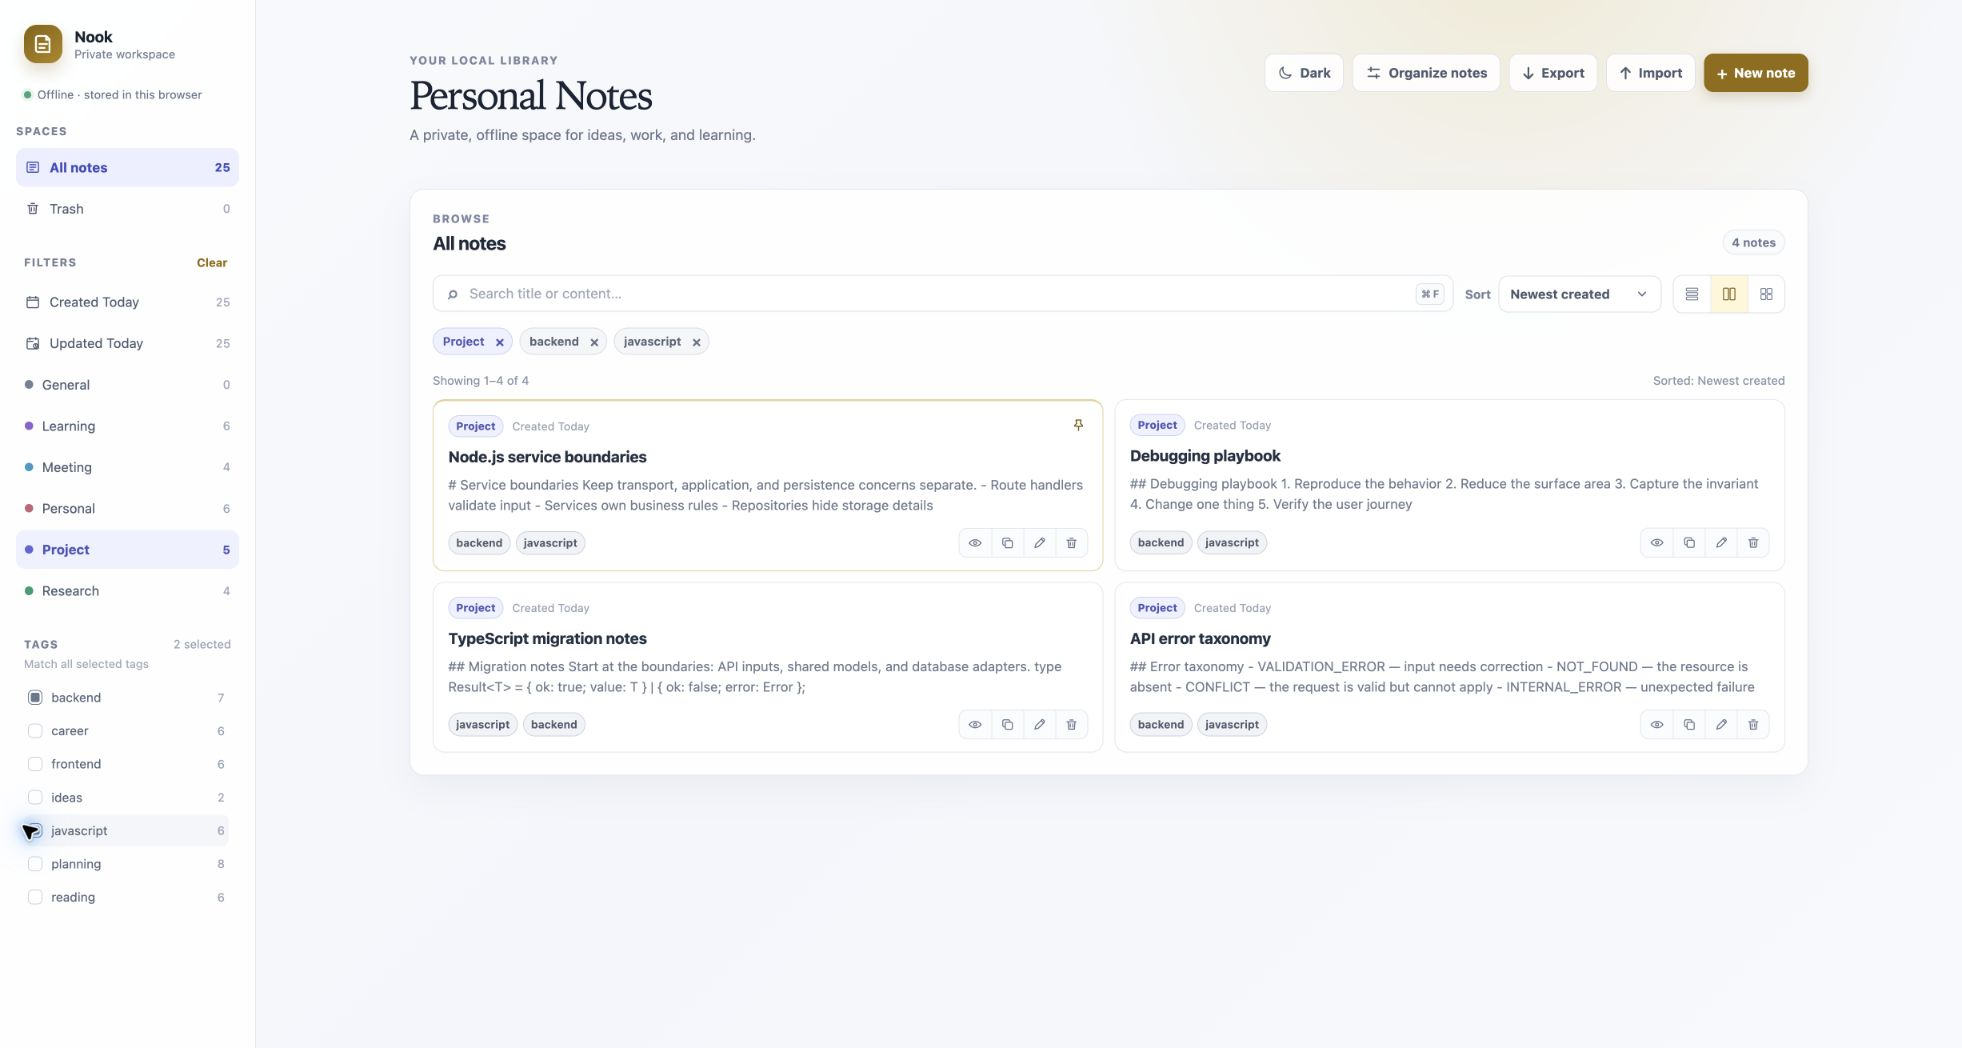
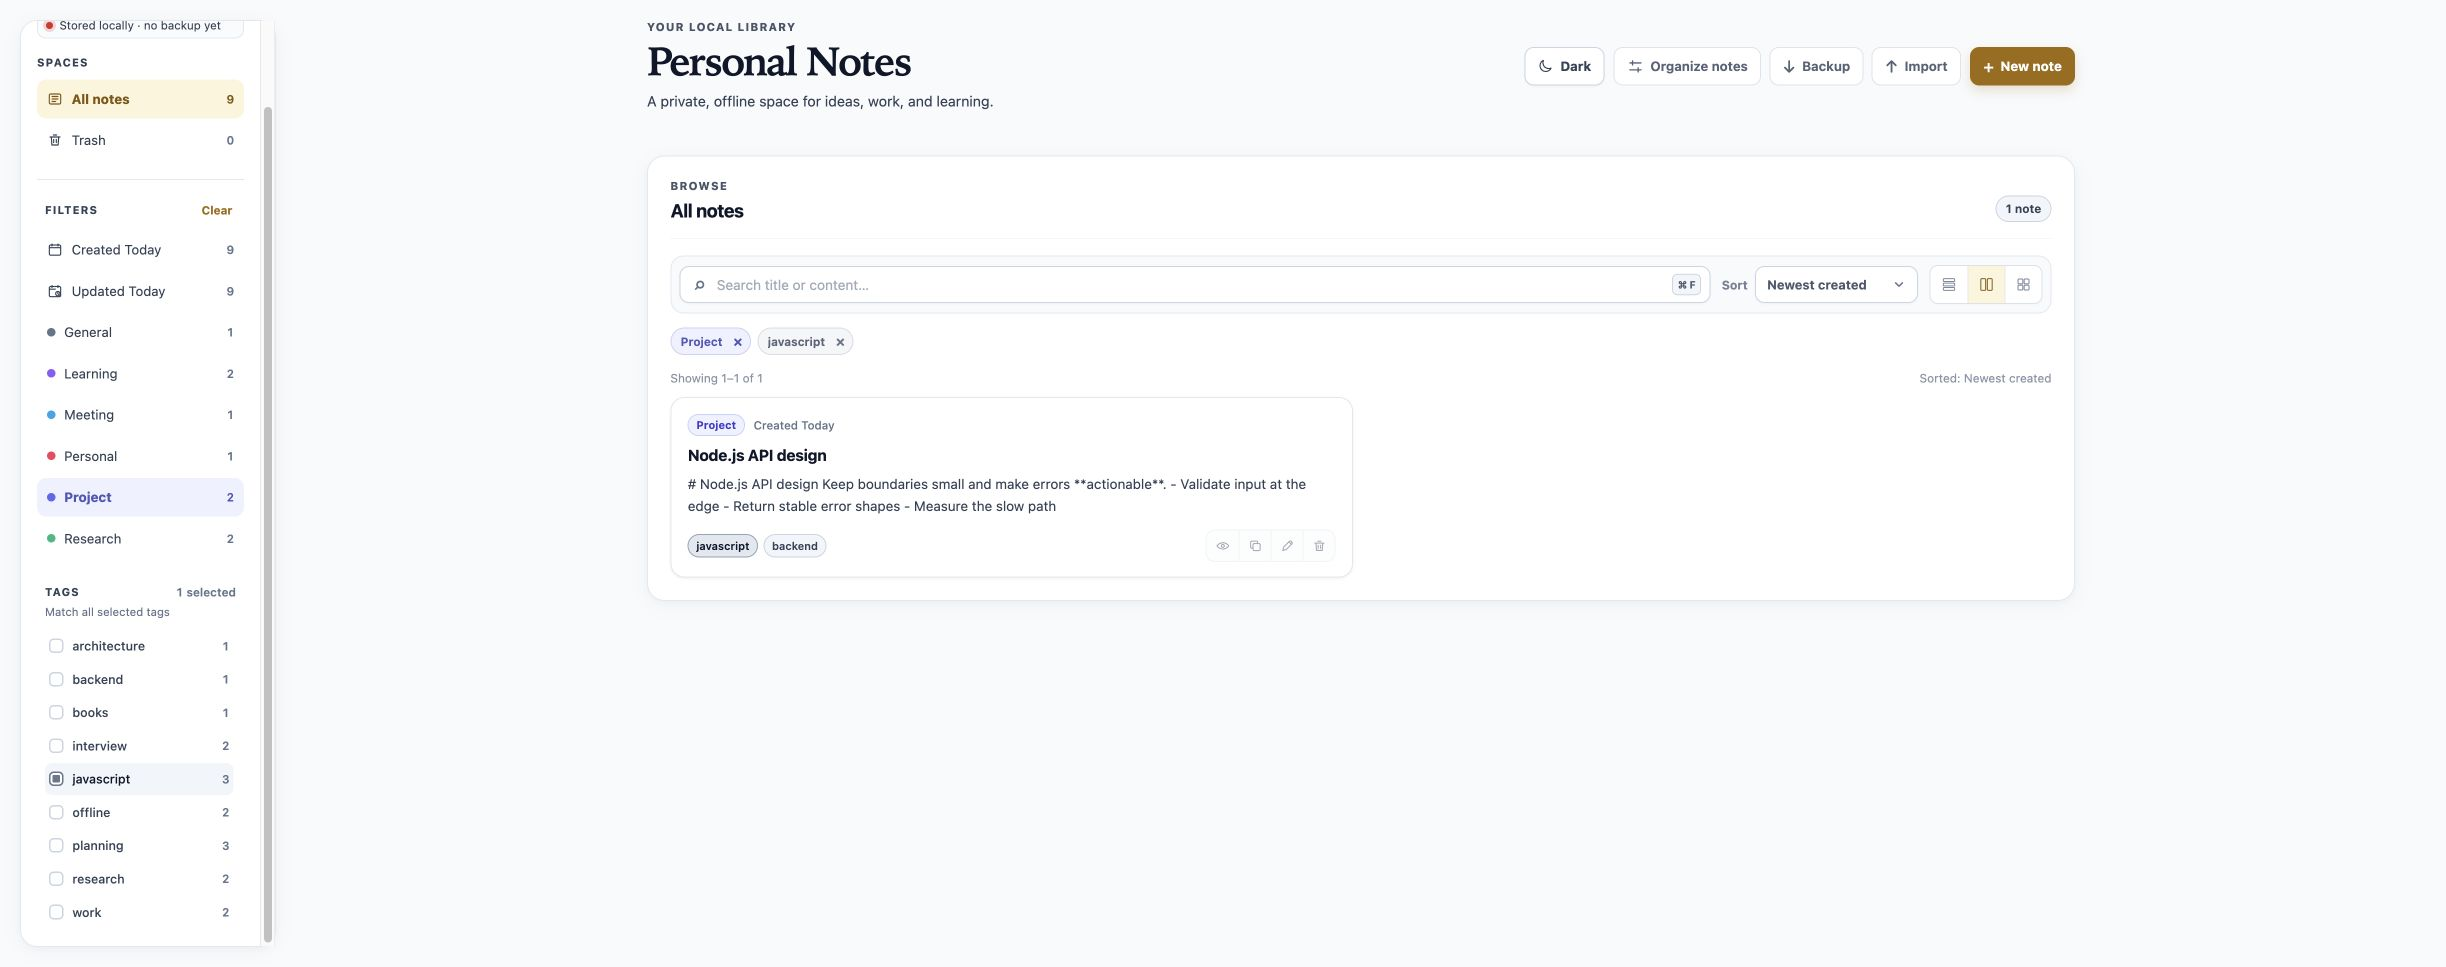
docs: update README and screenshots for improved clarity and new features

diff --git a/README.md b/README.md
@@ -19,33 +19,59 @@ interview practice, and personal ideas in one searchable local library.
 - Move notes to Trash, restore them, undo a move, or permanently empty Trash.
 - Copy raw Markdown or export an individual note as `.md` or `.txt`.
 - Export and import a complete JSON backup of the local library.
+- See whether the library has a recent backup and get a reminder when the backup is missing or old.
 - Manage note types and tags from the Organize notes dialog.
 - Switch between light and dark themes and Focus, Comfortable, and Compact layouts.
 - Keep the library usable across multiple open tabs when the browser supports `BroadcastChannel`.
+- Use `C` for quick capture from the library, plus platform-aware editor shortcuts for formatting and saving.
 
 ## Screenshots
 
-These screenshots use a representative local library with 25 sample notes, multiple note types and tags, Markdown content, and pinned notes. Nook keeps this data in the current browser's IndexedDB; no note content is sent to a server.
+These screenshots use a representative local library with 9 demo notes, multiple note types and tags, Markdown content, and a pinned note. Nook keeps this data in the current browser's IndexedDB; no note content is sent to a server.
 
 ### Main library
 
-![Nook main library with sample notes, note types, tags, and pinned notes](docs/screenshots/nook-library.jpg)
+![Nook main library with note types, tags, and a pinned note](docs/screenshots/nook-library.jpg)
+
+### Combined filters
+
+![Nook filtered by the Project type and javascript tag](docs/screenshots/nook-filters.jpg)
+
+### Dark theme
+
+![Nook main library in dark theme](docs/screenshots/nook-dark.jpg)
 
 ### Markdown editor
 
-![Nook edit dialog showing raw Markdown content](docs/screenshots/nook-markdown-editor.jpg)
+![Nook edit dialog showing raw Markdown, tags, quick save, and save-and-close actions](docs/screenshots/nook-editor.jpg)
 
 ### Split editor and preview
 
 ![Nook split view showing raw Markdown beside the rendered preview](docs/screenshots/nook-split-view.jpg)
 
-### Pinned notes
+### Quick View
 
-![Nook library with pinned notes kept at the top of the results](docs/screenshots/nook-pinned-notes.jpg)
+![Nook Quick View rendering a Markdown note with tags and export actions](docs/screenshots/nook-quick-view.jpg)
 
-### Combined filters
+### Organize notes
 
-![Nook filtering by Project, backend, and javascript to show four matching notes](docs/screenshots/nook-filters.jpg)
+![Nook Organize notes dialog for managing note types](docs/screenshots/nook-organize.jpg)
+
+### Trash
+
+![Nook Trash with restore, permanent delete, and Empty Trash actions](docs/screenshots/nook-trash.jpg)
+
+### Mobile library
+
+![Nook responsive mobile library with collapsed filters](docs/screenshots/nook-mobile.jpg)
+
+### Mobile filters
+
+![Nook responsive mobile filters expanded](docs/screenshots/nook-mobile-filters.jpg)
+
+### Mobile editor
+
+![Nook full-screen mobile note editor](docs/screenshots/nook-mobile-editor.jpg)
 
 ## Quick start
 
@@ -100,6 +126,7 @@ for reading.
 - Remove individual filters from the active-filter pills or select **Clear**.
 - Choose a sort order from the toolbar. Pinned notes remain above unpinned notes.
 - Use the Focus, Comfortable, and Compact buttons to change the card layout.
+- On a narrow screen, open **Filters** to reveal the note spaces, date filters, types, and tags without leaving the library.
 
 The **Organize notes** dialog lets you add, rename, recolor, and delete note
 types and tags. Every note belongs to one type. The built-in **General** type
@@ -135,6 +162,8 @@ The modifier is `Command` on macOS and `Control` on Windows/Linux.
 | `⌘/Ctrl + Enter` | Save and close the editor |
 
 The editor footer includes an accessible shortcut and Markdown guide.
+
+From the library, press `C` when focus is not inside a form field and no dialog is open to start a new note. This avoids browser-reserved new-window shortcuts such as `⌘/Ctrl + N`.
 
 ## Markdown support
 
